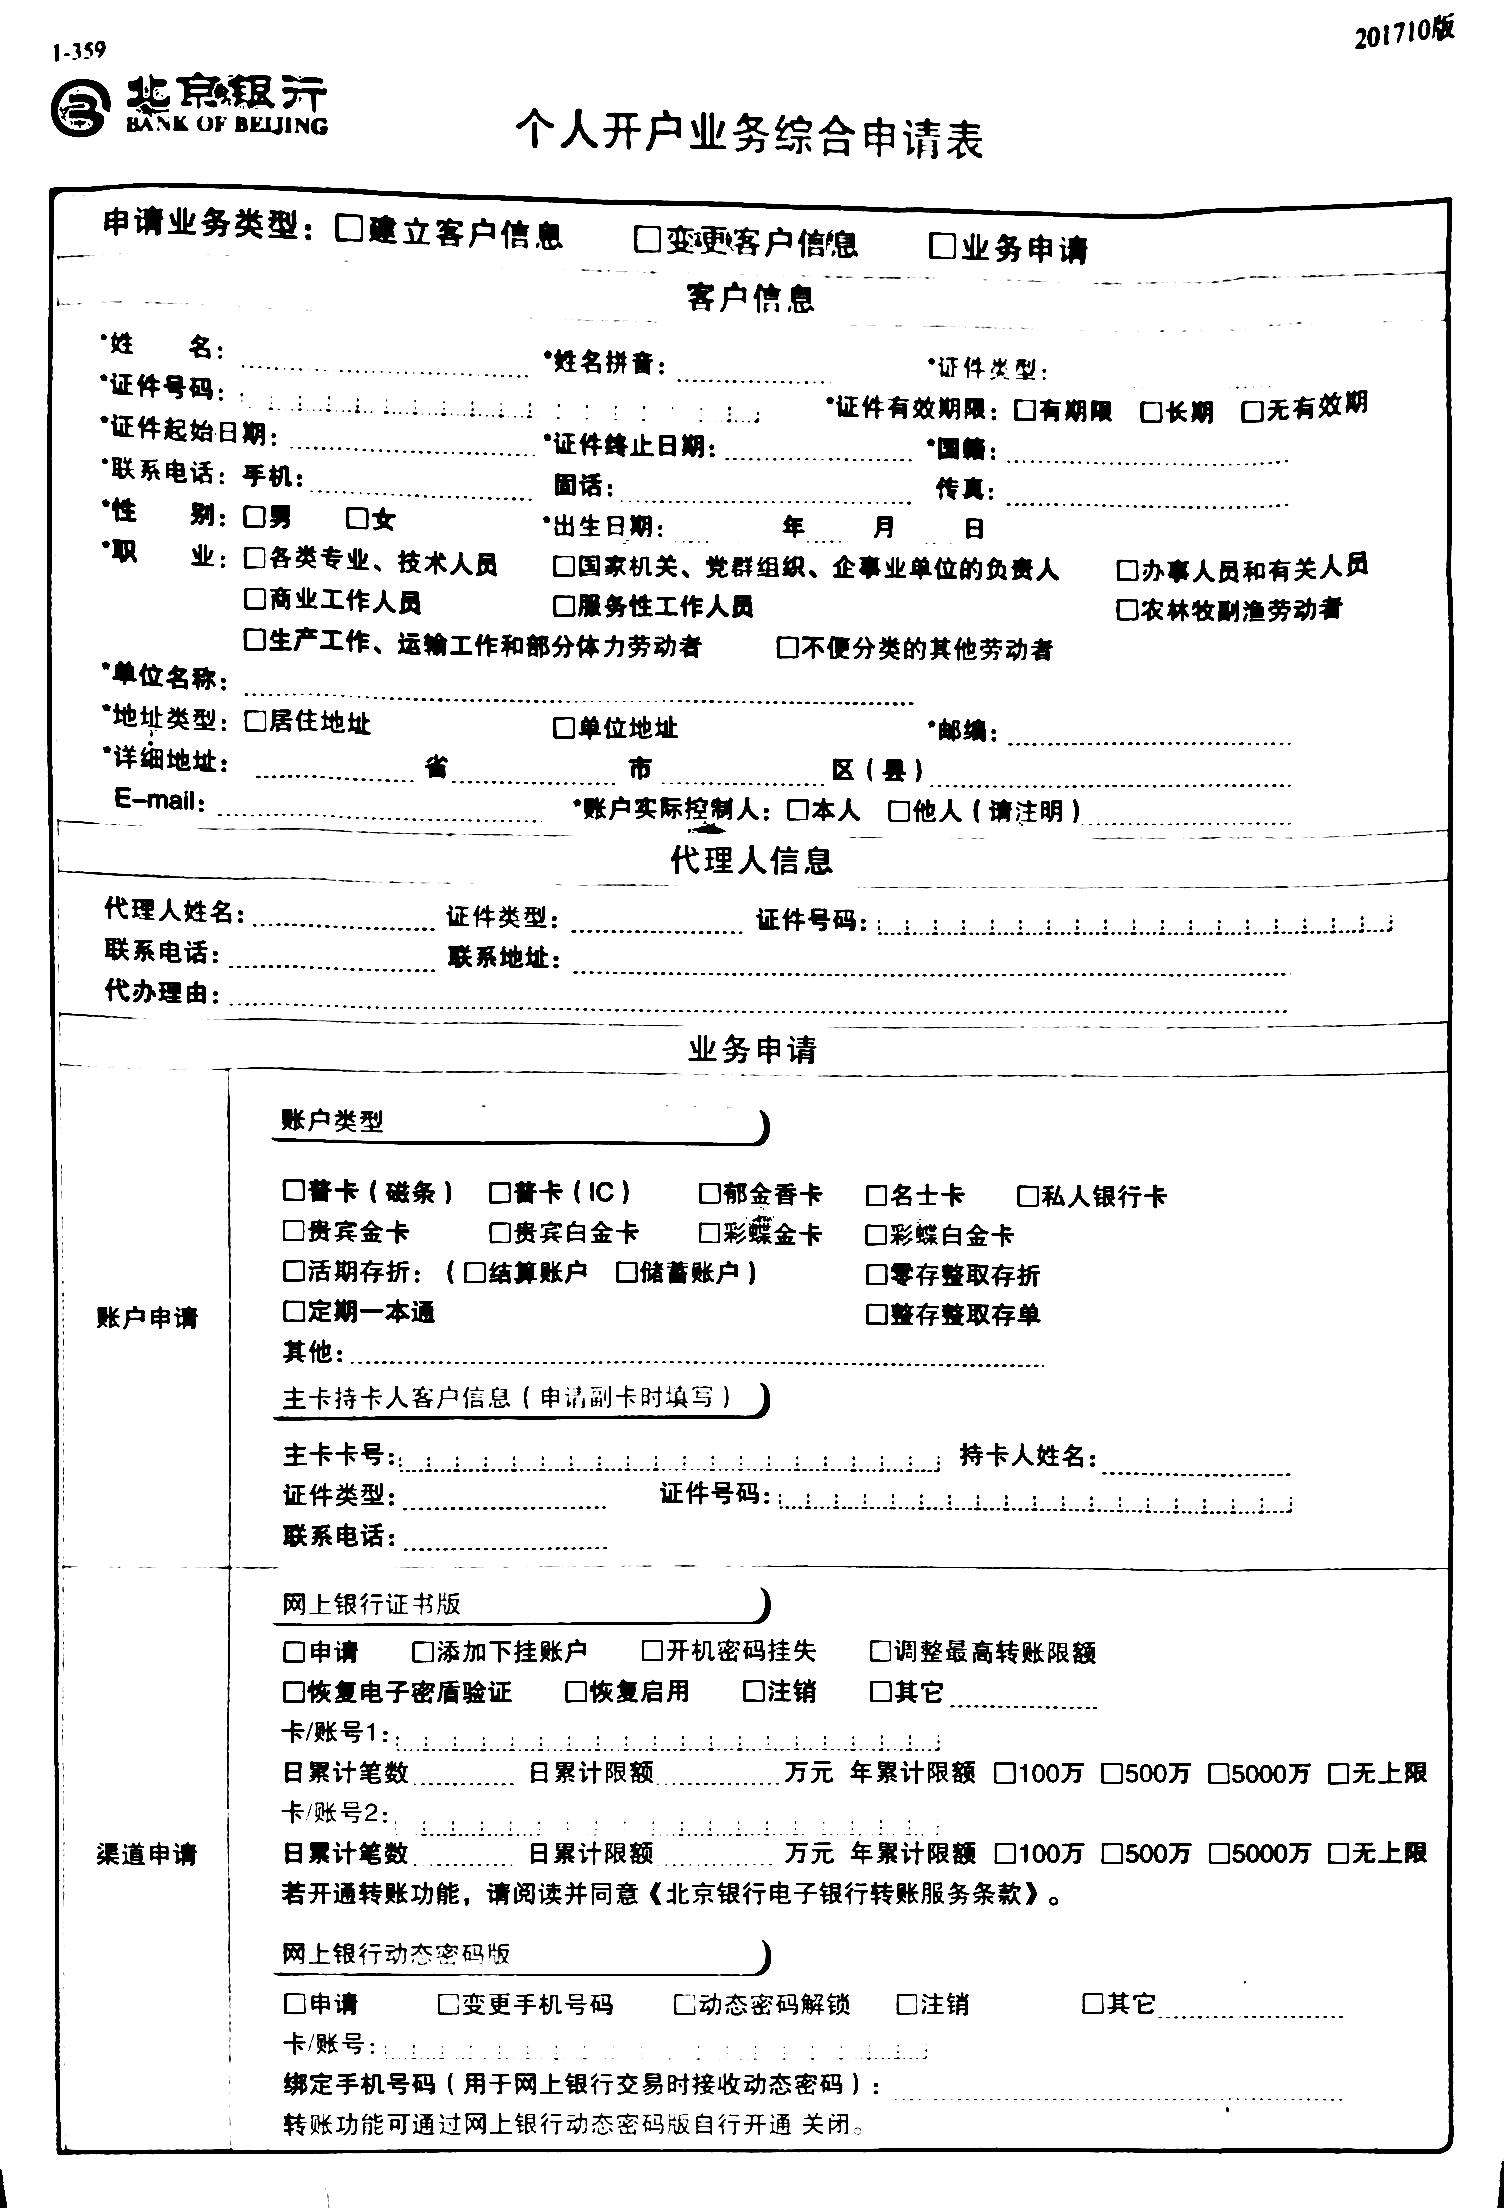
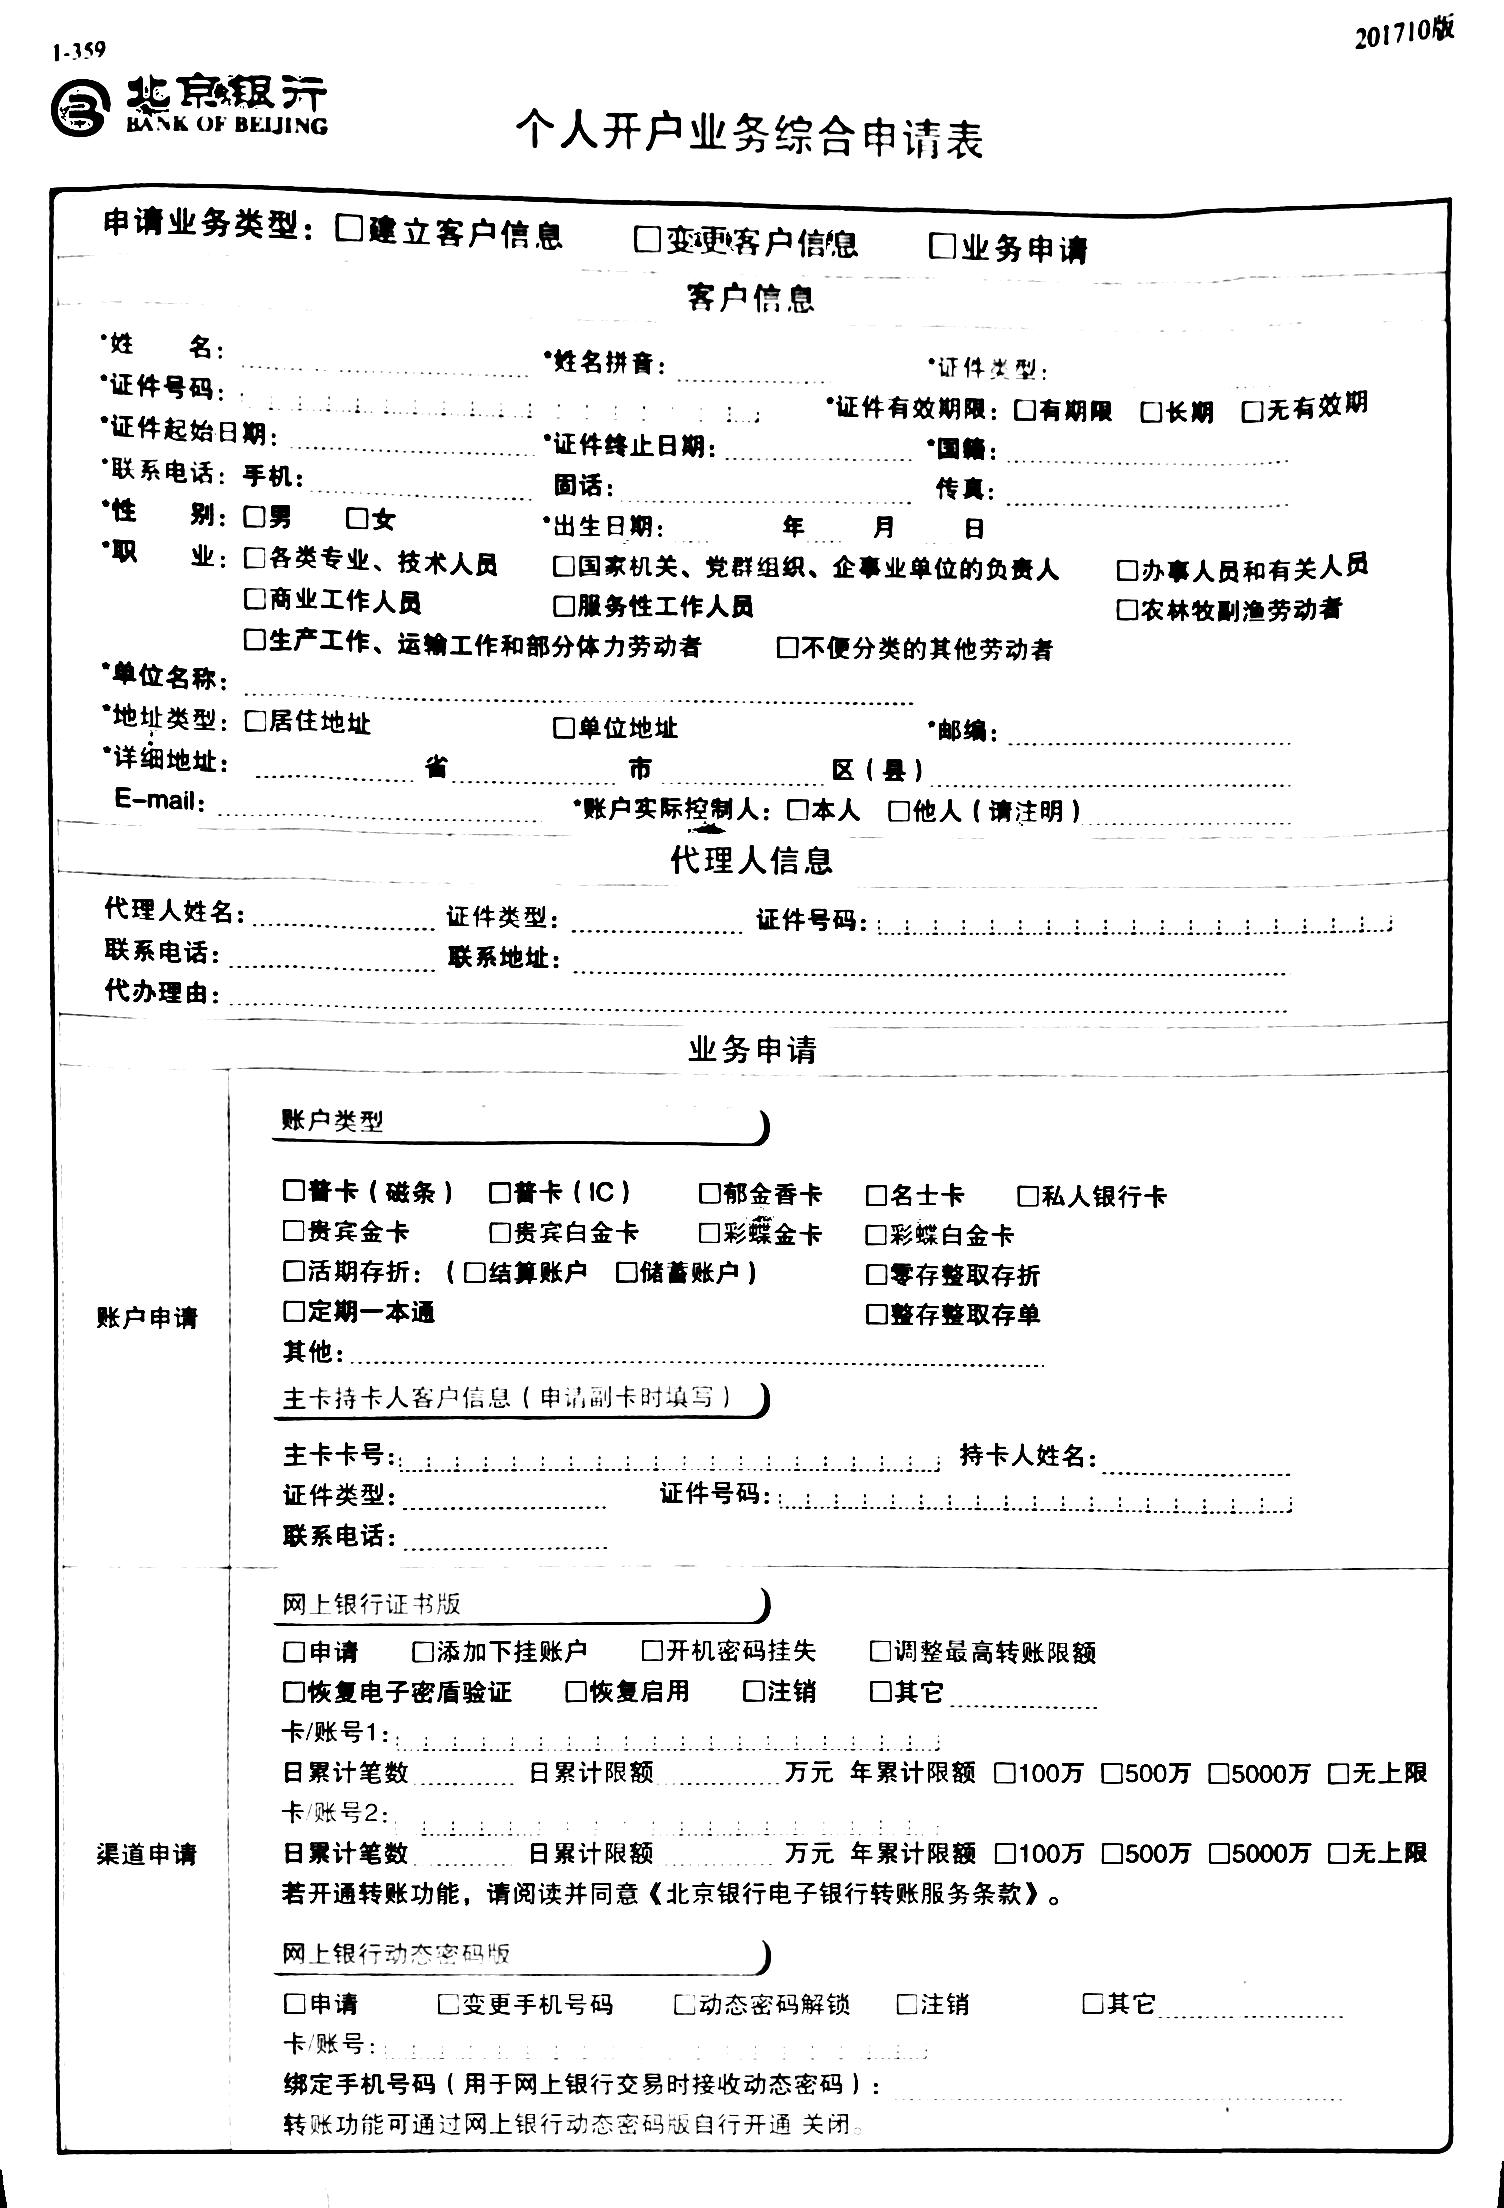
remove light

diff --git a/remove_light.py b/remove_light.py
@@ -1,7 +1,7 @@
 # -*- coding:utf-8 -*-
 import cv2
 from PIL import Image
-from PIL import ImageEnhance, ImageFilter
+from PIL import ImageEnhance
 import numpy as np
 
 isShowImage = True
@@ -12,8 +12,8 @@ def showCV2Image(title, img):
     cv2.waitKey(0)
 
 def removelight(img, block):
-    average = np.mean(gray)  # 求原图的平均灰度
-    rows, cols = gray.shape
+    average = np.mean(img)  # 求原图的平均灰度
+    rows, cols = img.shape
     rows_new = int(np.ceil(rows / block))
     cols_new = int(np.ceil(cols / block))  # 将原图根据block大小，划分为rows_new*cols_new大小的块
     block_image = np.zeros((rows_new, cols_new), dtype=np.float32)  # 求每一块的灰度均值，构成矩阵
@@ -27,21 +27,53 @@ def removelight(img, block):
             colmax = (c + 1) * block
             if colmax > cols:
                 colmax = cols
-            imageROI = gray[row_min:row_max, colmin:colmax]  # 当前块
+            imageROI = img[row_min:row_max, colmin:colmax]  # 当前块
             block_mean = np.mean(imageROI)  # 求每一块的灰度均值
             block_image[r, c] = block_mean  # 构成矩阵
     block_image = block_image - average  # 亮度矩阵差
     # INTER_CUBIC 4*4像素邻域的双三次插值
     # 将rows_new*cols_new的图像恢复到与原图一样大小
     block_image2 = cv2.resize(block_image, (cols, rows), interpolation=cv2.INTER_CUBIC)
-    gray2 = gray.astype(np.float32)
+    gray2 = img.astype(np.float32)
     dst = gray2 - block_image2
     dst = dst.astype(np.uint8)
     dst = cv2.GaussianBlur(dst, (3, 3), 0)
     return dst
 
+def image_enhancement(img):
+    # 亮度增强
+    enh_bri = ImageEnhance.Brightness(src1)
+    brightness = 1.5
+    gf_brightened = enh_bri.enhance(brightness)
+    gf_brightened.show(title='gf_brightened')
+    # gf_brightened.save('gf_brightened.jpg')
+
+    #对比度增强
+    enh_con = ImageEnhance.Contrast(gf_brightened)
+    contrast = 30
+    gf_contrast = enh_con.enhance(contrast)
+    gf_contrast.show(title='gf_contrast')
+    # gf_contrast.save('gf_contrast.jpg')
+
+    #锐化增强
+    enh_sha = ImageEnhance.Sharpness(gf_contrast)
+    sharpness = 20.0
+    gf_sharped = enh_sha.enhance(sharpness)
+    gf_sharped.show(title='gf_sharped')
+    # gf_sharped.save('gf_sharped.jpg')
+
+    #色度增强
+    enh_col = ImageEnhance.Color(gf_sharped)
+    color = 10
+    gf_colored = enh_col.enhance(color)
+    gf_colored.show(title='gf_colored')
+    # gf_colored.save('gf_colored.jpg')
+
+    return gf_colored
+
 if __name__ == '__main__':
     src = cv2.imread('4.jpeg')#原始图像
+
     # (b, g, r) = cv2.split(src)#分离通道
     # gf = cv2.merge([b, g, r])#通道合并
 
@@ -53,81 +85,24 @@ if __name__ == '__main__':
     # if isShowImage:
     #     showCV2Image('dst_b', dst)
 
-    # 需要去除光照的影响
+
     gray = cv2.cvtColor(src, cv2.COLOR_BGR2GRAY)#彩色转灰度图
     if isShowImage:
         showCV2Image('gray', gray)
 
+    # 需要去除光照的影响
     dst = removelight(gray, block=32)
     cv2.imwrite('4_1.jpg', dst)
 
     #dst = cv2.cvtColor(dst, cv2.COLOR_GRAY2BGR)
     #此处需要注意灰度图转彩色图的伪彩色技术，需要继续处理，否则出来的仍为灰度图，是一种彩色图的索引
 
-    # [m, n] = dst.shape
-    # dst_color = np.zeros((m, n, 3))
-    # for i in range(m):#r
-    #     for j in range(n):
-    #         if dst[i, j] <= 127:
-    #             dst_color[i, j, 2] = 0
-    #         elif dst[i, j] <= 191:
-    #             dst_color[i, j, 2] = 4*dst[i, j] -510
-    #         else:
-    #             dst_color[i, j, 2] = 255
-    #
-    # for i in range(m):#g
-    #     for j in range(n):
-    #         if dst[i, j] <= 63:
-    #             dst_color[i, j, 1] = 254-4*dst[i, j]
-    #         elif dst[i, j] <= 127:
-    #             dst_color[i, j, 1] = 4*dst[i, j] -254
-    #         elif dst[i, j] <= 191:
-    #             dst_color[i, j, 1] = 255
-    #         else:
-    #             dst_color[i, j, 1] = 1022-4*dst[i, j]
-    #
-    # for i in range(m):#b
-    #     for j in range(n):
-    #         if dst[i, j] <= 63:
-    #             dst_color[i, j, 0] = 255
-    #         elif dst[i, j] <= 127:
-    #             dst_color[i, j, 0] = 510-4*dst[i, j]
-    #         else:
-    #             dst_color[i, j, 0] = 0
-    # dst_color = dst_color.astype(np.uint8)
-    # if isShowImage:
-    #     showCV2Image('dst_color', dst_color)
 
     # 下面进行图像增强操作
     src1 = Image.open('4_1.jpg')  # imread的图像为数组，image其自带的open方法无法处理，mode不对应，open返回一个pil对象
+    img = image_enhancement(src1)
+    cv2.imwrite('image.jpg', img)
 
-    # 亮度增强
-    enh_bri = ImageEnhance.Brightness(src1)
-    brightness = 1.5
-    gf_brightened = enh_bri.enhance(brightness)
-    gf_brightened.show(title='gf_brightened')
-    gf_brightened.save('gf_brightened.jpg')
-
-    #对比度增强
-    enh_con = ImageEnhance.Contrast(gf_brightened)
-    contrast = 30
-    gf_contrast = enh_con.enhance(contrast)
-    gf_contrast.show(title='gf_contrast')
-    gf_contrast.save('gf_contrast.jpg')
-
-    #锐化增强
-    enh_sha = ImageEnhance.Sharpness(gf_contrast)
-    sharpness = 20.0
-    gf_sharped = enh_sha.enhance(sharpness)
-    gf_sharped.show(title='gf_sharped')
-    gf_sharped.save('gf_sharped.jpg')
-
-    #色度增强
-    enh_col = ImageEnhance.Color(gf_sharped)
-    color = 10
-    gf_colored = enh_col.enhance(color)
-    gf_colored.show(title='gf_colored')
-    gf_colored.save('gf_colored.jpg')
 
 
 

diff --git a/equalize_hist.py b/equalize_hist.py
@@ -1,0 +1,81 @@
+# -*- coding:utf-8 -*-
+import cv2
+from PIL import Image
+from PIL import ImageEnhance
+import remove_light
+import numpy as np
+from skimage import morphology, measure
+
+isShowImage = True
+
+def showCV2Image(title, img):
+    cv2.namedWindow(title, cv2.WINDOW_NORMAL | cv2.WINDOW_KEEPRATIO)#调整窗口大小并保持比例
+    cv2.imshow(title, img)
+    cv2.waitKey(0)
+
+if __name__ == '__main__':
+    src = cv2.imread('4.jpeg')#原始图像
+    bgr = cv2.split(src)#分离通道
+
+    # bgr_equ_hist = []
+    # for i in range(len(bgr)):#直方图均衡化
+    #     equ_hist = cv2.equalizeHist(bgr[i])
+    #     bgr_equ_hist.append(equ_hist)
+    #
+    # bgr_equ_merge = cv2.merge(bgr_equ_hist)
+    # if isShowImage:
+    #     showCV2Image('bgr_equ_merge', bgr_equ_merge)
+    # cv2.imwrite('4_2.jpg', bgr_equ_merge)
+
+    bgr_adap = []#自适应直方图均衡化
+    clahe = cv2.createCLAHE(clipLimit=2.0, tileGridSize=(32, 32))
+    for i in range(len(bgr)):
+        adap_hist = clahe.apply(bgr[i])
+        bgr_adap.append(adap_hist)
+
+    bgr_adap_merge = cv2.merge(bgr_adap)
+    if isShowImage:
+        showCV2Image('bgr_adap_merge', bgr_adap_merge)
+    cv2.imwrite('4_2.jpg', bgr_adap_merge)
+
+    gray = cv2.cvtColor(bgr_adap_merge, cv2.COLOR_BGR2GRAY)
+    if isShowImage:
+        showCV2Image('gray1', gray)
+
+    dst = remove_light.removelight(img=gray, block=32)
+    if isShowImage:
+        showCV2Image('dst0', dst)
+
+    cv2.imwrite('4_3.jpg', dst)
+
+    #存在小块的干扰噪声，需要进行滤波
+
+    src1 = Image.open('4_3.jpg')  # imread的图像为数组，image其自带的open方法无法处理，mode不对应，open返回一个pil对象
+
+    # 亮度增强
+    enh_bri = ImageEnhance.Brightness(src1)
+    brightness = 1.5
+    gf_brightened = enh_bri.enhance(brightness)
+    gf_brightened.show(title='gf_brightened')
+    # gf_brightened.save('gf_brightened.jpg')
+
+    #对比度增强
+    enh_con = ImageEnhance.Contrast(gf_brightened)
+    contrast = 1.5
+    gf_contrast = enh_con.enhance(contrast)
+    gf_contrast.show(title='gf_contrast')
+    #gf_contrast.save('gf_contrast.jpg')
+
+    #锐化增强
+    enh_sha = ImageEnhance.Sharpness(gf_contrast)
+    sharpness = 5.0
+    gf_sharped = enh_sha.enhance(sharpness)
+    gf_sharped.show(title='gf_sharped')
+    #gf_sharped.save('gf_sharped.jpg')
+
+    #色度增强
+    enh_col = ImageEnhance.Color(gf_sharped)
+    color = 1
+    gf_colored = enh_col.enhance(color)
+    gf_colored.show(title='gf_colored')
+    gf_colored.save('equ_colored.jpg')

diff --git a/remove_small_area.py b/remove_small_area.py
@@ -1,0 +1,74 @@
+# -*- coding:utf-8 -*-
+import cv2
+import numpy as np
+from PIL import Image
+from PIL import ImageEnhance
+from skimage import measure, color,morphology
+
+isShowImage = True
+
+def showCV2Image(title, img):
+    cv2.namedWindow(title, cv2.WINDOW_NORMAL | cv2.WINDOW_KEEPRATIO)#调整窗口大小并保持比例
+    cv2.imshow(title, img)
+    cv2.waitKey(0)
+
+if __name__ == '__main__':
+    src = cv2.imread('equ_colored.jpg')
+    if isShowImage:
+        showCV2Image('src', src)
+
+    gray = cv2.cvtColor(src, cv2.COLOR_BGR2GRAY)
+    if isShowImage:
+        showCV2Image('gray', gray)
+
+    #法2：腐蚀膨胀，去除小的连通域
+    rows, cols = gray.shape
+    area = 40
+    for i in range(rows):
+        for j in range(cols):
+            if gray[i, j] < area:
+                gray[i, j] = 255
+            else:
+                gray[i, j] = 0
+
+    kernel = np.ones((3, 3), np.uint8)
+    kernel[1] = 0
+    gray1 = cv2.erode(gray, kernel)
+    gray1 = cv2.dilate(gray1, kernel)
+    if isShowImage:
+        showCV2Image('gray1', gray1)
+
+    # for i in range(rows):
+    #     for j in range(cols):
+    #         if gray1[i, j] == 255:
+    #             src[i, j] = 255
+    # if isShowImage:
+    #     showCV2Image('gray_', src)
+    #
+    # cv2.imwrite('remove_small1.jpg', src)
+
+    labels, nums = measure.label(gray1, connectivity=2, return_num=True)
+    props = measure.regionprops(labels)
+    print(labels.shape)
+    print(labels)
+    areas = []
+    for i in range(nums):
+        areas.append(props[i]['area'])
+    print('areas', areas)
+    max_value = max(areas)
+    print('max_value', max_value)
+    image = morphology.remove_small_objects(labels, min_size=1, connectivity=1)#去除小的连通域
+    cv2.imwrite('remove_area.jpg', image)
+
+
+    for i in range(rows):
+        for j in range(cols):
+            if image[i, j] != 0:
+                src[i, j] = 255
+    if isShowImage:
+        showCV2Image('gray_', src)
+
+    cv2.imwrite('remove_small1.jpg', src)
+
+
+
